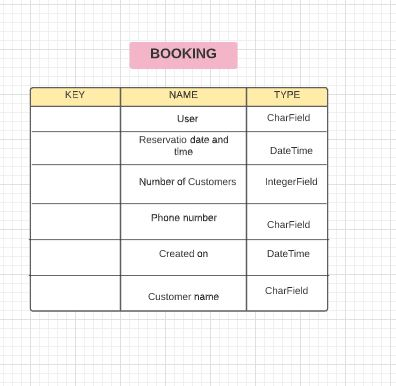
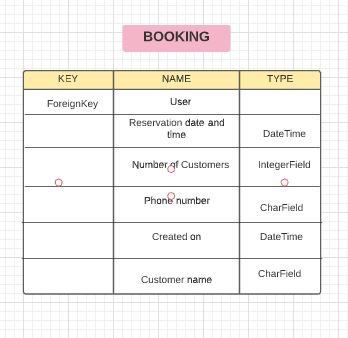
Add Technologies Used section to Readme

diff --git a/README.md b/README.md
@@ -77,7 +77,7 @@ The site has been designed to be fully responsive on desktop, laptop, tablet and
     -   #### Colour Scheme
         -   The main colours in the website theme for header, background, footer and text labels are brown, yellow, and beige.
     -   #### Typography
-        -   I used a standard Bootstrap theme with all the components and styling. The css stylesheet was using a set of Google Fonts, like BlinkMacSystemFont, Segoe UI with fallback to Roboto, Helvetica Neue with fallback to Arial, sans-serif, Apple Color Emoji, Segoe UI Emoji, Segoe UI Symbol, Noto Color Emoji.
+        -   I used a standard Bootstrap theme with all the components and styling. Raleway and Lora are the main fonts used, Raleway for label titles and Lora for body text.
     -   #### Imagery
         -   Imagery was chosen to go with the website's colour and content theme. I'm using dining and restaurant interior images with deep-toned, soothing colours and attractive graphics. For the edit, delete and logout page I'm using images with graphics that signal what will happen if user edits, deletes or signs out.
 
@@ -85,25 +85,33 @@ The site has been designed to be fully responsive on desktop, laptop, tablet and
     -   #### Discrepancy with original ideas
         -   I originally intended to create my own HTML pages and CSS styling, however, I decided to use a standard Bootstrap theme instead, which saved me a huge amount of time. I simply followed the theme layout, customized text labels for various forms, so the original wireframes were not used at all. As the theme is fully responsive, I didn't create mobile device wireframes after deciding to use Bootstrap. By using a Boostrap theme, my theme is more unified, too. I also created a menu page for the site, which wasn't in my original plans.
     -   #### Links to Wireframes
-    -   Home Page Wireframe - [View](https://github.com/renatalantos/booking-system/blob/main/restaurant/documents/screenshots/wireframes/Home%20Page%20Wireframe.pdf)
 
-    -   Booking Page Wireframe - [View](https://github.com/renatalantos/booking-system/blob/main/restaurant/documents/screenshots/wireframes/Booking%20Page%20Wireframe.pdf)
+        -   Home Page Wireframe - [View](https://github.com/renatalantos/booking-system/blob/main/restaurant/documents/screenshots/wireframes/Home%20Page%20Wireframe.pdf)
 
-    -   Contact Us Page Wireframe - [View](https://github.com/renatalantos/booking-system/blob/main/restaurant/documents/screenshots/wireframes/Contact%20Page%20Wireframe.pdf)
+        -   Booking Page Wireframe - [View](https://github.com/renatalantos/booking-system/blob/main/restaurant/documents/screenshots/wireframes/Booking%20Page%20Wireframe.pdf)
 
-    -   Login Page Wireframe - [View](https://github.com/renatalantos/booking-system/blob/main/restaurant/documents/screenshots/wireframes/Login%20Page%20Wireframe.pdf)
+        -   Contact Us Page Wireframe - [View](https://github.com/renatalantos/booking-system/blob/main/restaurant/documents/screenshots/wireframes/Contact%20Page%20Wireframe.pdf)
 
-    -   Register Page Wireframe -[View](https://github.com/renatalantos/booking-system/blob/main/restaurant/documents/screenshots/wireframes/Register%20Page%20Wireframe.pdf)
+        -   Login Page Wireframe - [View](https://github.com/renatalantos/booking-system/blob/main/restaurant/documents/screenshots/wireframes/Login%20Page%20Wireframe.pdf)
+
+        -   Register Page Wireframe -[View](https://github.com/renatalantos/booking-system/blob/main/restaurant/documents/screenshots/wireframes/Register%20Page%20Wireframe.pdf)
 
 
 ## Features
+-   ### Responsivity
 
--   The application is responsive on all device sizes, thanks to the Boostrap theme. In mobile view there is a collapsible menu icon. All images, text labels, forms get appropriately resized. There is an exception, however: when bookings are displayed in the database table in the view_booking.html, on mobile phone screens in portrait mode there is not enough room for all columns to be shown. However, Bootstrap adds a slide bar so that user can slide the page content from left to right. 
-[View database table in portrait mode on smallest mobile device]()
+The application is responsive on all device sizes, thanks to the Boostrap theme. In mobile view there is a collapsible menu icon. All images, text labels, forms get appropriately resized. There is an exception, however: when bookings are displayed in the database table in the view_booking.html, on mobile phone screens in portrait mode there is not enough room for all columns to be shown. However, Bootstrap adds a slide bar so that user can slide the page content from left to right. 
+
+[View database table in portrait mode on smallest mobile device](https://github.com/renatalantos/booking-system/blob/main/restaurant/documents/screenshots/site%20features/Booking%20table%20with%20slide%20bar.JPG)
+
 In mobile phone landscape mode all columns show beside one another, however, the nav header and footer don't reach from one end of the page to the other.
-[View database table in landscape mode on smallest mobile device]()
 
--   Interactive elements
+[View database table in landscape mode on smallest mobile device](https://github.com/renatalantos/booking-system/blob/main/restaurant/documents/screenshots/site%20features/Booking%20table%20landscape.JPG)
+
+-   ### Interactive elements
+    -   #### Nav links for Home, Menu, Book a Table, Contact Us, Register, Login and Logout pages
+    -   #### Form input fields on signup, register, signout, table booking, edit booking and delete booking forms
+    -   #### Buttons - including form buttons (signup, register, signout, table booking, edit booking and delete booking form buttons) and page buttons (Visit Us button on Home page)
 
 ## Technologies Used
 
@@ -111,34 +119,41 @@ In mobile phone landscape mode all columns show beside one another, however, the
 
 -   [HTML5](https://en.wikipedia.org/wiki/HTML5)
 -   [CSS3](https://en.wikipedia.org/wiki/Cascading_Style_Sheets)
+-   [Python](https://en.wikipedia.org/wiki/Python_(programming_language))
 
-### Frameworks, Libraries & Programs Used
-
-1. [Bootstrap 4.4.1:](https://getbootstrap.com/docs/4.4/getting-started/introduction/)
+### Frameworks, Libraries & Programs Used / lucidcahrt, heroku, sqlite3 database, cloudinary
+1. [Django:](https://www.djangoproject.com/)
+    - The Python-based Django framework was used to set up the structure, functionalities,  data model and database of the website.
+1. [Bootstrap 5.1.3:](https://startbootstrap.com/theme/business-casual)
     - Bootstrap was used to assist with the responsiveness and styling of the website.
-1. [Hover.css:](https://ianlunn.github.io/Hover/)
-    - Hover.css was used on the Social Media icons in the footer to add the float transition while being hovered over.
 1. [Google Fonts:](https://fonts.google.com/)
-    - Google fonts were used to import the 'Titillium Web' font into the style.css file which is used on all pages throughout the project.
+    -    Raleway and Lora are the main fonts used, Raleway for label titles and Lora for body text.
 1. [Font Awesome:](https://fontawesome.com/)
     - Font Awesome was used on all pages throughout the website to add icons for aesthetic and UX purposes.
 1. [jQuery:](https://jquery.com/)
-    - jQuery came with Bootstrap to make the navbar responsive but was also used for the smooth scroll function in JavaScript.
-1. [Git](https://git-scm.com/)
+    - jQuery came with Bootstrap to make the navbar responsive but was also used for the smooth scroll function in JavaScript. It is also used for the Bootstrap Tempus Dominus datetime picker and to define visibility duration for popup messages that signal successful completion of different form related activities.
+1. [Git:](https://git-scm.com/)
     - Git was used for version control by utilizing the Gitpod terminal to commit to Git and Push to GitHub.
 1. [GitHub:](https://github.com/)
     - GitHub is used to store the projects code after being pushed from Git.
-1. [Photoshop:](https://www.adobe.com/ie/products/photoshop.html)
-    - Photoshop was used to create the logo, resizing images and editing photos for the website.
 1. [Balsamiq:](https://balsamiq.com/)
-    - Balsamiq was used to create the [wireframes](https://github.com/) during the design process.
-
+    - Balsamiq was used to create the wireframes during the design process. [Wireframes](https://github.com/renatalantos/booking-system/tree/main/restaurant/documents/screenshots/wireframes)
+1. [Lucidchart:](https://www.lucidchart.com/)
+    - Lucidchart was used to create the data model of the project . [View Booking data model](https://github.com/renatalantos/booking-system/blob/main/restaurant/documents/screenshots/wireframes/1%20model%20only%20with%20Booking.JPG)   
+1. [SQLite3 database:](https://en.wikipedia.org/wiki/SQLite)
+    - SQLite3 is Django's default database system
+1. [Cloudinary:](https://cloudinary.com/)
+    - I used cloudinary for cloud-based storage and partly for linking of my website images.
+1. [Heroku:](https://www.heroku.com/)
+    -  Heroku is used for the deployment and ultimate cloud-based storage of my application.
 ## Testing
 
-The W3C Markup Validator and W3C CSS Validator Services were used to validate every page of the project to ensure there were no syntax errors in the project.
+The W3C Markup Validator and W3C CSS Validator Services were used to validate every pagefor HTML and CSS of the project to ensure there were no syntax errors in the project.
 
--   [W3C Markup Validator](https://jigsaw.w3.org/css-validator/#validate_by_input) - [Results](https://github.com/)
--   [W3C CSS Validator](https://jigsaw.w3.org/css-validator/#validate_by_input) - [Results](https://github.com/)
+-   [W3C URI Validator](https://validator.w3.org/#validate_by_uri)
+    - See the [URI Validator Results](https://github.com/renatalantos/booking-system/tree/main/restaurant/documents/screenshots/html%20validation)
+-   [W3C CSS Validator](https://jigsaw.w3.org/css-validator/#validate_by_input)
+    - See the [CSS Validator Results]()
 
 ### Testing User Stories from User Experience (UX) Section
 
